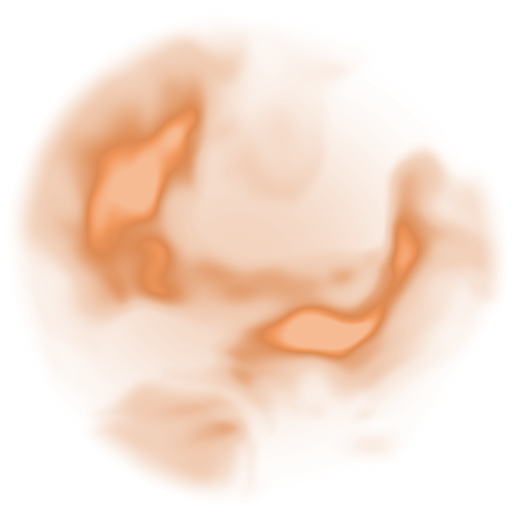
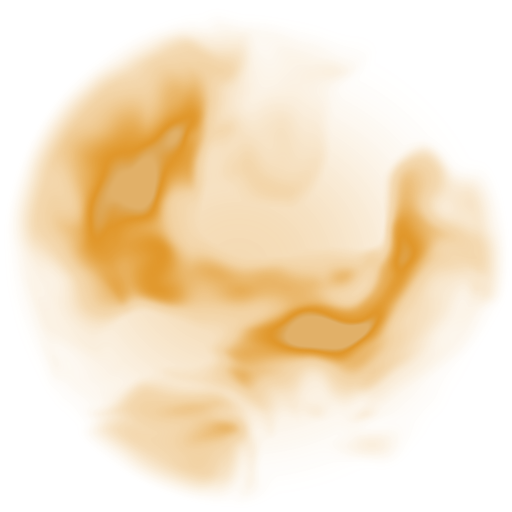
Colours: primary #dc8d18, secondary #ffffff (Color studio)

Changed region(s): [[0.1562, 0.1875, 0.4062, 0.5938], [0.5, 0.4062, 0.8438, 0.7188]]

diff --git a/app/globals.css b/app/globals.css
@@ -62,9 +62,9 @@
  * Dark-first: výchozí je tmavé téma. Slider v rohu mění --brand-h / --brand-c.
  */
 :root {
-  --brand-h: 48;
-  --brand-c: 0.16;
-  --brand-l-adj: 0.035; /* ±0.08: posun světlosti akcentu (tlačítka, výplně, glow) */
+  --brand-h: 68.8;
+  --brand-c: 0.149;
+  --brand-l-adj: -0.0717; /* ±0.08: posun světlosti akcentu (tlačítka, výplně, glow) */
 
   --brand: oklch(calc(0.78 + var(--brand-l-adj)) var(--brand-c) var(--brand-h));
   --brand-strong: oklch(calc(0.7 + var(--brand-l-adj)) var(--brand-c) var(--brand-h));
@@ -76,7 +76,7 @@
 
   /* Sekundární barva: jen decentní doplněk (čísla sekcí, hover šedých tlačítek, FAQ ikona,
      výběr textu). Nikdy ve stejném prvku jako primární. */
-  --sec: #6aa7ff;
+  --sec: #ffffff;
   --sec-deep: color-mix(in oklab, var(--sec) 70%, black);
   --sec-text: var(--sec);
 

diff --git a/components/ColorStudio.tsx b/components/ColorStudio.tsx
@@ -15,7 +15,7 @@ import { makePack, updateFavicon } from '@/lib/brandAssets';
 
 const KEY = 'brand-v6';
 type Brand = { p: string; s: string; h: number; c: number; l: number };
-const DEF: Brand = { p: '#ff9f5f', s: '#6aa7ff', h: 48, c: 0.16, l: 0.035 };
+const DEF: Brand = { p: '#dc8d18', s: '#ffffff', h: 68.8, c: 0.149, l: -0.0717 };
 
 const round = (n: number, d = 3) => +n.toFixed(d);
 const clamp = (n: number, a: number, b: number) => Math.min(b, Math.max(a, n));
